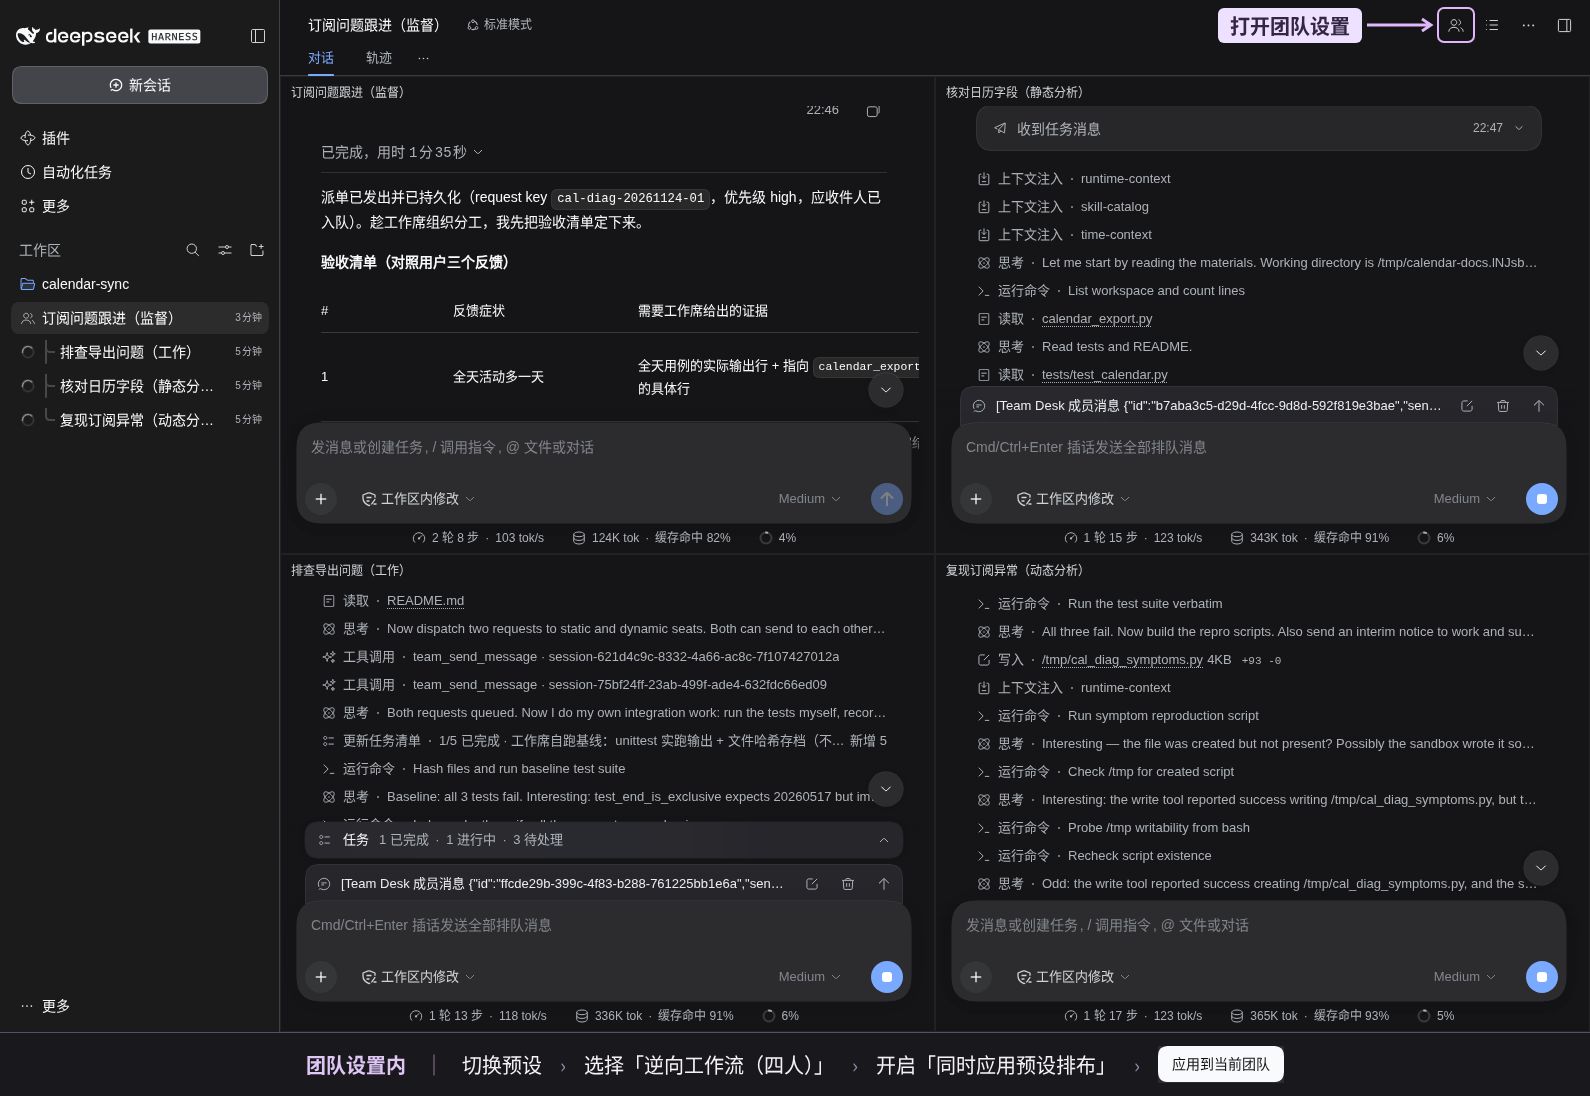
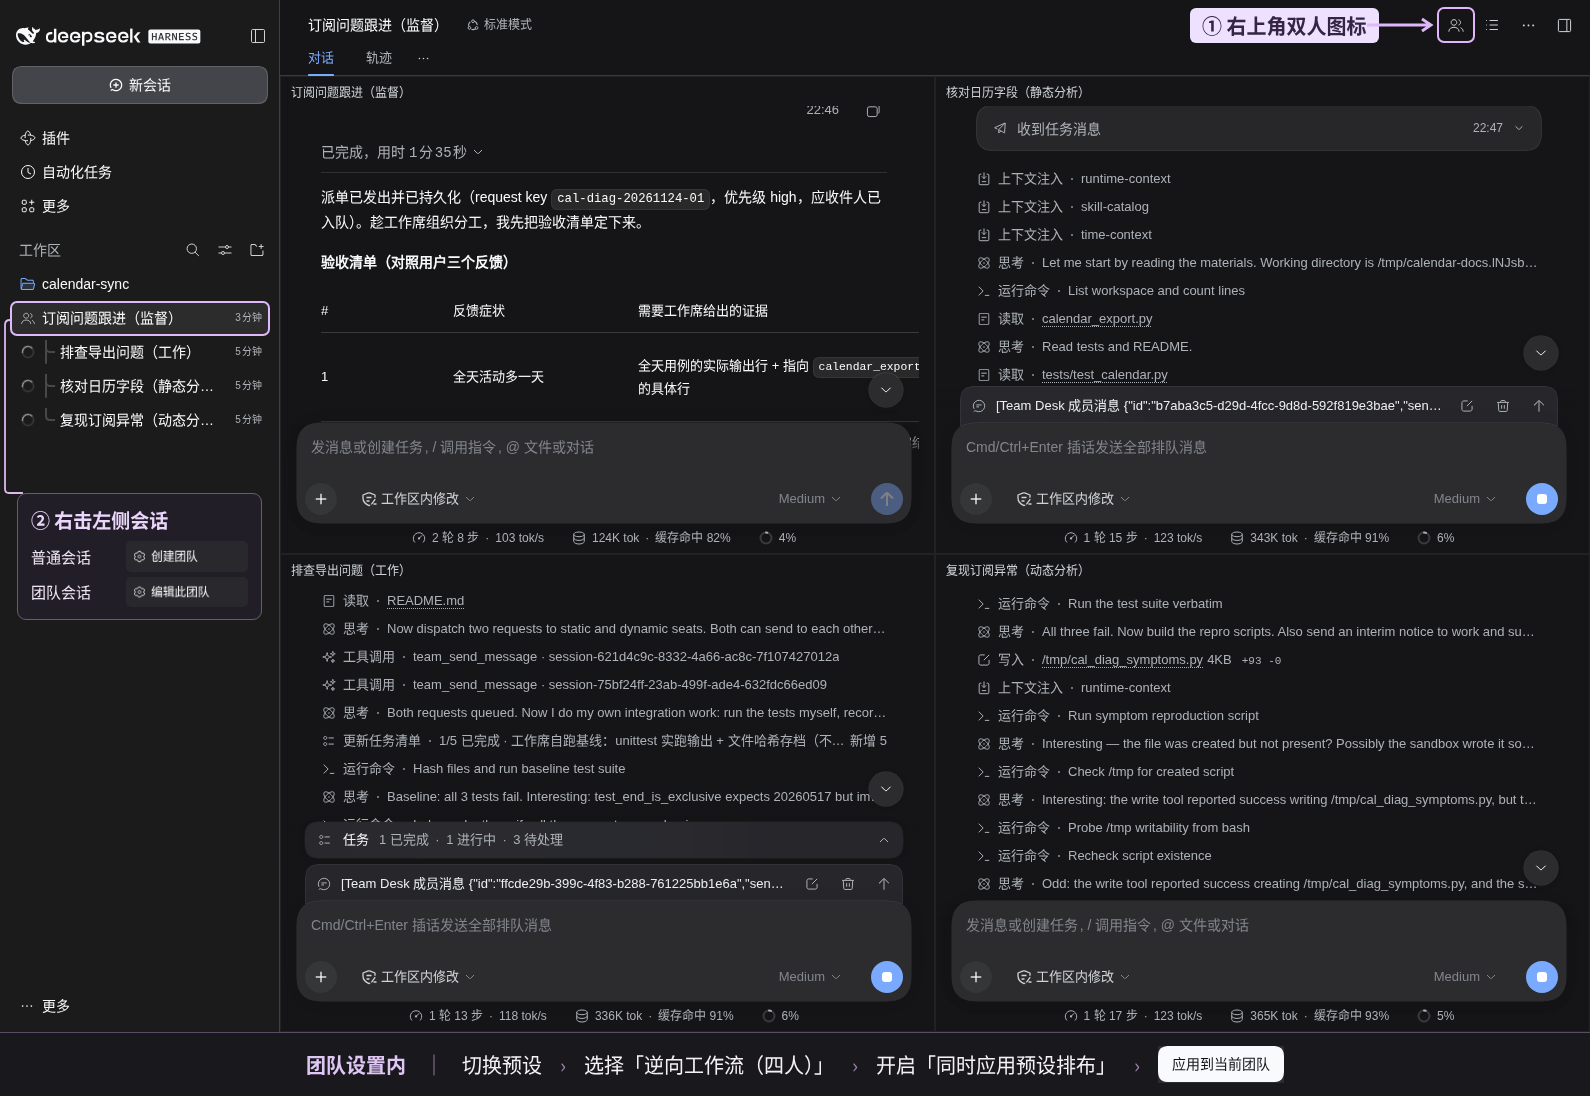
Team Desk v0.15.4

Changed region(s): [[0.0, 0.4653, 0.1233, 0.5584], [0.7396, 0.0, 0.8629, 0.062], [0.0, 0.2792, 0.0308, 0.3102]]

diff --git a/README.md b/README.md
@@ -1,35 +1,39 @@
 <h1 align="center">
-  <img src="assets/avatar.png" width="124" height="124" align="center" alt="月兔少女头像">
+  <img src="https://cdn.jsdelivr.net/npm/dsh-plugin-team-desk@0.15.4/assets/avatar.png" width="124" height="124" align="center" alt="月兔少女头像">
   &nbsp;
-  <img src="assets/wordmark.svg" width="330" align="center" alt="Team Desk · Multi-session collaboration for DeepSeek Harness">
+  <img src="https://cdn.jsdelivr.net/npm/dsh-plugin-team-desk@0.15.4/assets/wordmark.svg" width="330" align="center" alt="Team Desk · Multi-session collaboration for DeepSeek Harness">
 </h1>
 
 在 DeepSeek Harness 的同一个工作区并排打开团队会话。每个成员有独立的对话、职责和权限，可以接单、交流，并把结果交回派单人。
 
 ## 安装
 
-适用于 **DSH 0.2.3-alpha.2** 和 **Node.js 26.13.1 或以上**（其实你装上去试试就行了）。从[私有预览发行页](https://github.com/ousiqwq/dsh-team-desk/releases/tag/v0.15.4-preview.2)下载 npm 安装包，在保存安装包的目录执行。两种方式任选其一。
+适用于 **DSH 0.2.3-alpha.2** 和 **Node.js 26.13.1 或以上**（其实你装上去试试就行了）。两种安装方式任选其一。
 
-**npx 一键安装**
-
-```sh
-npx --yes ./dsh-plugin-team-desk-0.15.4-preview.2.tgz install --profile web
-```
-
-**DSH CLI 安装**
+**npm 一键安装（推荐）**
 
 ```sh
-dsh plugin --profile web add ./dsh-plugin-team-desk-0.15.4-preview.2.tgz && npx --yes ./dsh-plugin-team-desk-0.15.4-preview.2.tgz adapt
+npm exec --yes --package=dsh-plugin-team-desk@0.15.4 -- dsh-team-desk install --profile web
 ```
 
-安装后重启 DSH。自定义宿主目录可在 npx 命令末尾添加 `--host /path/to/host`。宿主适配作用于使用同一套 DSH 程序文件的所有配置。
+**DSH CLI 一键安装**
+
+```sh
+dsh plugin --profile web add dsh-plugin-team-desk@0.15.4 && npx --yes dsh-plugin-team-desk@0.15.4 adapt
+```
+
+安装后重启 DSH。自定义宿主目录可在 `install` 或 `adapt` 命令末尾添加 `--host /path/to/host`。宿主适配作用于使用同一套 DSH 程序文件的所有配置。
 
 ## 打开团队，启用四窗
 
-1. 打开要作为主会话的对话，点击右上角的 **双人图标**。首次使用时，点击「创建团队」并确认。已有团队会直接进入设置。
-2. 在「切换预设」选择 **逆向工作流（四人）**，打开「同时应用预设排布」，再点 **应用到当前团队**。配置生效后点「查看窗口」，就能在四个窗格里分别对话。
+有两个入口，任选一个即可打开团队设置。
 
-![四个会话正在排查日历订阅异常。工作席发出两条派单，静态席收件后核对字段，动态席运行复现用例。箭头标出右上角团队设置入口。](assets/previews/four-panes.png)
+- **右上角双人图标**　先打开要管理的会话，再点击图标。
+- **左侧会话列表**　右击普通会话，选择「创建团队」。右击已有团队的主会话或成员，选择「编辑此团队」。
+
+首次组队时，在设置中点「创建团队」并确认，当前会话就成为主会话。在「切换预设」选择 **逆向工作流（四人）**，打开「同时应用预设排布」，再点 **应用到当前团队**。配置生效后点「查看窗口」，就能在四个窗格里分别对话。
+
+![四个会话正在排查日历订阅异常。工作席发出两条派单，静态席收件后核对字段，动态席运行复现用例。标注分别指向右上角双人图标和左侧会话右键菜单，菜单摘图显示「创建团队」和「编辑此团队」。](https://cdn.jsdelivr.net/npm/dsh-plugin-team-desk@0.15.4/assets/previews/four-panes.png)
 
 ## 拖拽排布
 
@@ -38,9 +42,16 @@ dsh plugin --profile web add ./dsh-plugin-team-desk-0.15.4-preview.2.tgz && npx 
 - **替换窗格**　四窗已满时，从左侧拖入尚未显示的会话，会替换鼠标所在的窗格。被替换的会话仍在左侧列表。
 - **放进右侧栏**　先展开右侧栏，再把会话拖进栏内。拖到对话区的最右边缘会调整分屏。
 
-![从左侧会话树按住「复现订阅异常」，拖入「核对日历字段」下方的蓝色区域后松开。](assets/previews/drag-to-split.png)
+![从左侧会话树按住「复现订阅异常」，拖入「核对日历字段」下方的蓝色区域后松开。](https://cdn.jsdelivr.net/npm/dsh-plugin-team-desk@0.15.4/assets/previews/drag-to-split.png)
 
-## 团队预设
+## 自建团队与预设
+
+- **自己组队**　在主会话右上角点击双人图标，选择「创建团队」并确认。在「成员与会话」中添加成员，可以绑定已有会话，也可以新建会话。在「当前团队」配置每个人的职责、权限和通信关系后，点击「保存并应用」。
+- **创建可复用的预设**　在「管理 → 预设库」点击「新建预设」，设置成员、主成员、通信关系和初始排布，再点「保存预设」。也可以在「当前团队」选择「另存为预设」。要在另一个团队使用，到该团队的「切换预设」中选择它，点击「应用到当前团队」。
+
+## 内置团队预设
+
+插件自带以下三套预设，可直接使用，也可以复制后修改。
 
 | 预设 | 成员 | 分工 |
 | --- | --- | --- |
@@ -60,4 +71,4 @@ dsh plugin --profile web add ./dsh-plugin-team-desk-0.15.4-preview.2.tgz && npx 
 
 ## 许可证
 
-[MIT](LICENSE)
+[MIT](https://cdn.jsdelivr.net/npm/dsh-plugin-team-desk@0.15.4/LICENSE)
